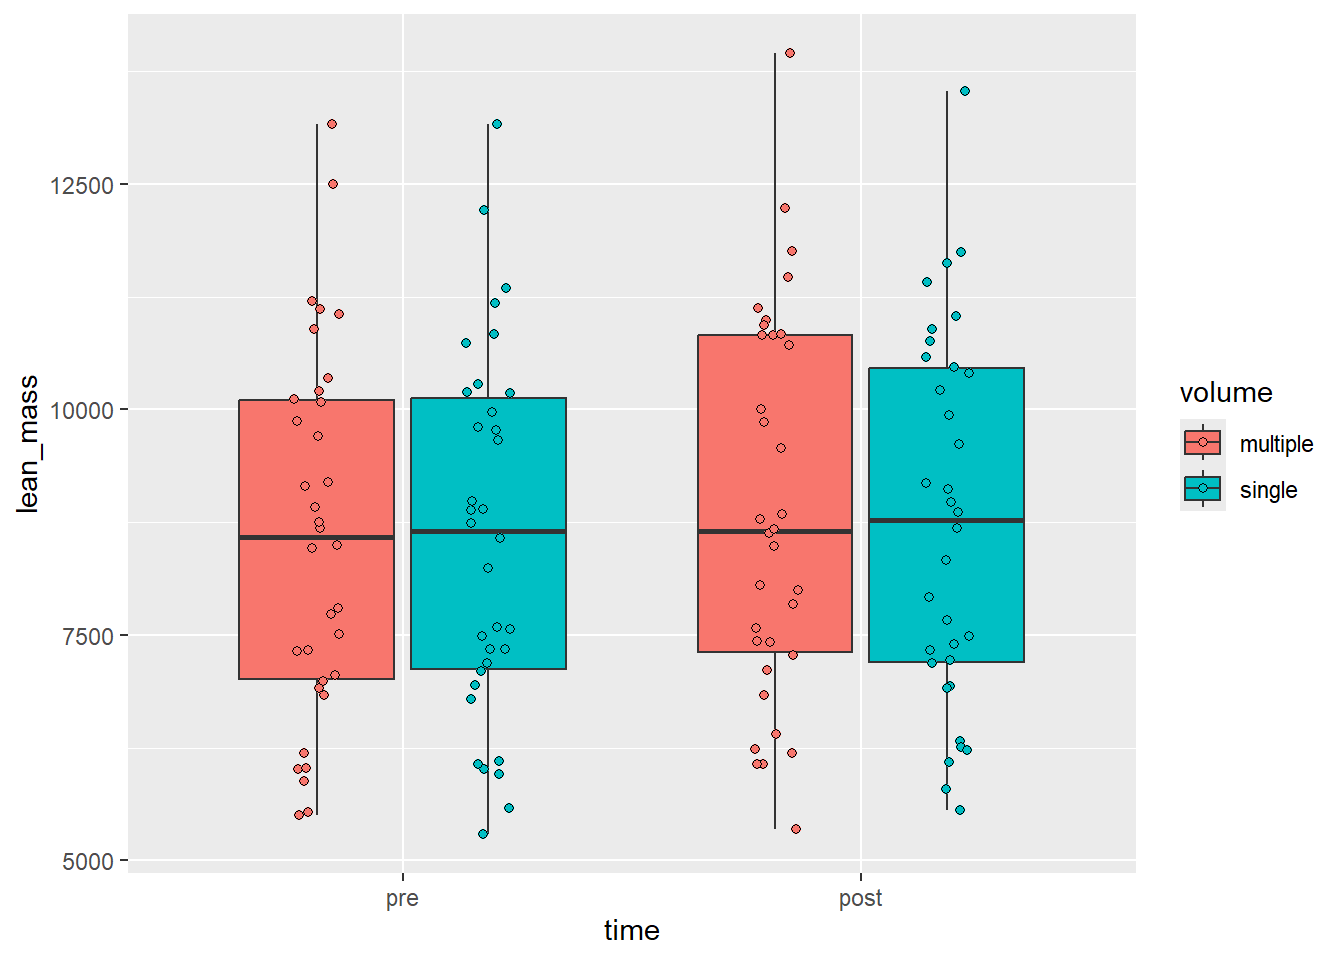
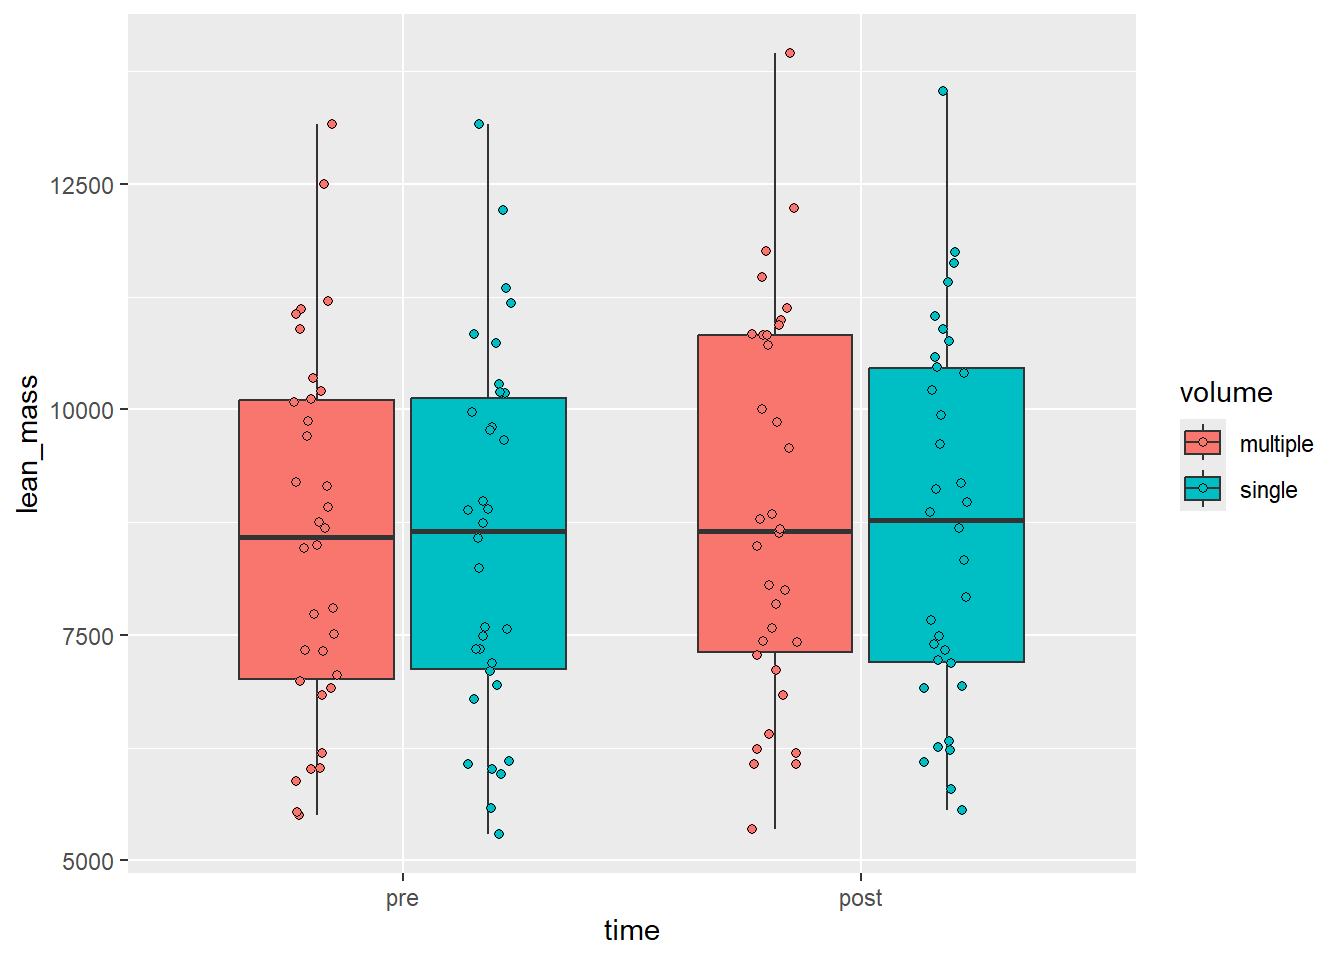
Built site for gh-pages

diff --git a/viz-01-basic-ggplot.html b/viz-01-basic-ggplot.html
@@ -286,23 +286,23 @@ Table&nbsp;1.1: Example data for a ggplot
 </figcaption>
 <div aria-describedby="tbl-ggplotdataexample-caption-0ceaefa1-69ba-4598-a22c-09a6ac19f8ca">
 <div class="cell-output-display">
-<div id="ufmfuvbewx" style="padding-left:0px;padding-right:0px;padding-top:10px;padding-bottom:10px;overflow-x:auto;overflow-y:auto;width:auto;height:auto;">
-<style>#ufmfuvbewx table {
+<div id="wntpxycupo" style="padding-left:0px;padding-right:0px;padding-top:10px;padding-bottom:10px;overflow-x:auto;overflow-y:auto;width:auto;height:auto;">
+<style>#wntpxycupo table {
   font-family: system-ui, 'Segoe UI', Roboto, Helvetica, Arial, sans-serif, 'Apple Color Emoji', 'Segoe UI Emoji', 'Segoe UI Symbol', 'Noto Color Emoji';
   -webkit-font-smoothing: antialiased;
   -moz-osx-font-smoothing: grayscale;
 }
 
-#ufmfuvbewx thead, #ufmfuvbewx tbody, #ufmfuvbewx tfoot, #ufmfuvbewx tr, #ufmfuvbewx td, #ufmfuvbewx th {
+#wntpxycupo thead, #wntpxycupo tbody, #wntpxycupo tfoot, #wntpxycupo tr, #wntpxycupo td, #wntpxycupo th {
   border-style: none;
 }
 
-#ufmfuvbewx p {
+#wntpxycupo p {
   margin: 0;
   padding: 0;
 }
 
-#ufmfuvbewx .gt_table {
+#wntpxycupo .gt_table {
   display: table;
   border-collapse: collapse;
   line-height: normal;
@@ -328,12 +328,12 @@ Table&nbsp;1.1: Example data for a ggplot
   border-left-color: #D3D3D3;
 }
 
-#ufmfuvbewx .gt_caption {
+#wntpxycupo .gt_caption {
   padding-top: 4px;
   padding-bottom: 4px;
 }
 
-#ufmfuvbewx .gt_title {
+#wntpxycupo .gt_title {
   color: #333333;
   font-size: 125%;
   font-weight: initial;
@@ -345,7 +345,7 @@ Table&nbsp;1.1: Example data for a ggplot
   border-bottom-width: 0;
 }
 
-#ufmfuvbewx .gt_subtitle {
+#wntpxycupo .gt_subtitle {
   color: #333333;
   font-size: 85%;
   font-weight: initial;
@@ -357,7 +357,7 @@ Table&nbsp;1.1: Example data for a ggplot
   border-top-width: 0;
 }
 
-#ufmfuvbewx .gt_heading {
+#wntpxycupo .gt_heading {
   background-color: #FFFFFF;
   text-align: center;
   border-bottom-color: #FFFFFF;
@@ -369,13 +369,13 @@ Table&nbsp;1.1: Example data for a ggplot
   border-right-color: #D3D3D3;
 }
 
-#ufmfuvbewx .gt_bottom_border {
+#wntpxycupo .gt_bottom_border {
   border-bottom-style: solid;
   border-bottom-width: 2px;
   border-bottom-color: #D3D3D3;
 }
 
-#ufmfuvbewx .gt_col_headings {
+#wntpxycupo .gt_col_headings {
   border-top-style: solid;
   border-top-width: 2px;
   border-top-color: #D3D3D3;
@@ -390,7 +390,7 @@ Table&nbsp;1.1: Example data for a ggplot
   border-right-color: #D3D3D3;
 }
 
-#ufmfuvbewx .gt_col_heading {
+#wntpxycupo .gt_col_heading {
   color: #333333;
   background-color: #FFFFFF;
   font-size: 100%;
@@ -410,7 +410,7 @@ Table&nbsp;1.1: Example data for a ggplot
   overflow-x: hidden;
 }
 
-#ufmfuvbewx .gt_column_spanner_outer {
+#wntpxycupo .gt_column_spanner_outer {
   color: #333333;
   background-color: #FFFFFF;
   font-size: 100%;
@@ -422,15 +422,15 @@ Table&nbsp;1.1: Example data for a ggplot
   padding-right: 4px;
 }
 
-#ufmfuvbewx .gt_column_spanner_outer:first-child {
+#wntpxycupo .gt_column_spanner_outer:first-child {
   padding-left: 0;
 }
 
-#ufmfuvbewx .gt_column_spanner_outer:last-child {
+#wntpxycupo .gt_column_spanner_outer:last-child {
   padding-right: 0;
 }
 
-#ufmfuvbewx .gt_column_spanner {
+#wntpxycupo .gt_column_spanner {
   border-bottom-style: solid;
   border-bottom-width: 2px;
   border-bottom-color: #D3D3D3;
@@ -442,11 +442,11 @@ Table&nbsp;1.1: Example data for a ggplot
   width: 100%;
 }
 
-#ufmfuvbewx .gt_spanner_row {
+#wntpxycupo .gt_spanner_row {
   border-bottom-style: hidden;
 }
 
-#ufmfuvbewx .gt_group_heading {
+#wntpxycupo .gt_group_heading {
   padding-top: 8px;
   padding-bottom: 8px;
   padding-left: 5px;
@@ -472,7 +472,7 @@ Table&nbsp;1.1: Example data for a ggplot
   text-align: left;
 }
 
-#ufmfuvbewx .gt_empty_group_heading {
+#wntpxycupo .gt_empty_group_heading {
   padding: 0.5px;
   color: #333333;
   background-color: #FFFFFF;
@@ -487,15 +487,15 @@ Table&nbsp;1.1: Example data for a ggplot
   vertical-align: middle;
 }
 
-#ufmfuvbewx .gt_from_md > :first-child {
+#wntpxycupo .gt_from_md > :first-child {
   margin-top: 0;
 }
 
-#ufmfuvbewx .gt_from_md > :last-child {
+#wntpxycupo .gt_from_md > :last-child {
   margin-bottom: 0;
 }
 
-#ufmfuvbewx .gt_row {
+#wntpxycupo .gt_row {
   padding-top: 8px;
   padding-bottom: 8px;
   padding-left: 5px;
@@ -514,7 +514,7 @@ Table&nbsp;1.1: Example data for a ggplot
   overflow-x: hidden;
 }
 
-#ufmfuvbewx .gt_stub {
+#wntpxycupo .gt_stub {
   color: #333333;
   background-color: #FFFFFF;
   font-size: 100%;
@@ -527,7 +527,7 @@ Table&nbsp;1.1: Example data for a ggplot
   padding-right: 5px;
 }
 
-#ufmfuvbewx .gt_stub_row_group {
+#wntpxycupo .gt_stub_row_group {
   color: #333333;
   background-color: #FFFFFF;
   font-size: 100%;
@@ -541,15 +541,15 @@ Table&nbsp;1.1: Example data for a ggplot
   vertical-align: top;
 }
 
-#ufmfuvbewx .gt_row_group_first td {
+#wntpxycupo .gt_row_group_first td {
   border-top-width: 2px;
 }
 
-#ufmfuvbewx .gt_row_group_first th {
+#wntpxycupo .gt_row_group_first th {
   border-top-width: 2px;
 }
 
-#ufmfuvbewx .gt_summary_row {
+#wntpxycupo .gt_summary_row {
   color: #333333;
   background-color: #FFFFFF;
   text-transform: inherit;
@@ -559,16 +559,16 @@ Table&nbsp;1.1: Example data for a ggplot
   padding-right: 5px;
 }
 
-#ufmfuvbewx .gt_first_summary_row {
+#wntpxycupo .gt_first_summary_row {
   border-top-style: solid;
   border-top-color: #D3D3D3;
 }
 
-#ufmfuvbewx .gt_first_summary_row.thick {
+#wntpxycupo .gt_first_summary_row.thick {
   border-top-width: 2px;
 }
 
-#ufmfuvbewx .gt_last_summary_row {
+#wntpxycupo .gt_last_summary_row {
   padding-top: 8px;
   padding-bottom: 8px;
   padding-left: 5px;
@@ -578,7 +578,7 @@ Table&nbsp;1.1: Example data for a ggplot
   border-bottom-color: #D3D3D3;
 }
 
-#ufmfuvbewx .gt_grand_summary_row {
+#wntpxycupo .gt_grand_summary_row {
   color: #333333;
   background-color: #FFFFFF;
   text-transform: inherit;
@@ -588,7 +588,7 @@ Table&nbsp;1.1: Example data for a ggplot
   padding-right: 5px;
 }
 
-#ufmfuvbewx .gt_first_grand_summary_row {
+#wntpxycupo .gt_first_grand_summary_row {
   padding-top: 8px;
   padding-bottom: 8px;
   padding-left: 5px;
@@ -598,7 +598,7 @@ Table&nbsp;1.1: Example data for a ggplot
   border-top-color: #D3D3D3;
 }
 
-#ufmfuvbewx .gt_last_grand_summary_row_top {
+#wntpxycupo .gt_last_grand_summary_row_top {
   padding-top: 8px;
   padding-bottom: 8px;
   padding-left: 5px;
@@ -608,11 +608,11 @@ Table&nbsp;1.1: Example data for a ggplot
   border-bottom-color: #D3D3D3;
 }
 
-#ufmfuvbewx .gt_striped {
+#wntpxycupo .gt_striped {
   background-color: rgba(128, 128, 128, 0.05);
 }
 
-#ufmfuvbewx .gt_table_body {
+#wntpxycupo .gt_table_body {
   border-top-style: solid;
   border-top-width: 2px;
   border-top-color: #D3D3D3;
@@ -621,7 +621,7 @@ Table&nbsp;1.1: Example data for a ggplot
   border-bottom-color: #D3D3D3;
 }
 
-#ufmfuvbewx .gt_footnotes {
+#wntpxycupo .gt_footnotes {
   color: #333333;
   background-color: #FFFFFF;
   border-bottom-style: none;
@@ -635,7 +635,7 @@ Table&nbsp;1.1: Example data for a ggplot
   border-right-color: #D3D3D3;
 }
 
-#ufmfuvbewx .gt_footnote {
+#wntpxycupo .gt_footnote {
   margin: 0px;
   font-size: 90%;
   padding-top: 4px;
@@ -644,7 +644,7 @@ Table&nbsp;1.1: Example data for a ggplot
   padding-right: 5px;
 }
 
-#ufmfuvbewx .gt_sourcenotes {
+#wntpxycupo .gt_sourcenotes {
   color: #333333;
   background-color: #FFFFFF;
   border-bottom-style: none;
@@ -658,7 +658,7 @@ Table&nbsp;1.1: Example data for a ggplot
   border-right-color: #D3D3D3;
 }
 
-#ufmfuvbewx .gt_sourcenote {
+#wntpxycupo .gt_sourcenote {
   font-size: 90%;
   padding-top: 4px;
   padding-bottom: 4px;
@@ -666,72 +666,72 @@ Table&nbsp;1.1: Example data for a ggplot
   padding-right: 5px;
 }
 
-#ufmfuvbewx .gt_left {
+#wntpxycupo .gt_left {
   text-align: left;
 }
 
-#ufmfuvbewx .gt_center {
+#wntpxycupo .gt_center {
   text-align: center;
 }
 
-#ufmfuvbewx .gt_right {
+#wntpxycupo .gt_right {
   text-align: right;
   font-variant-numeric: tabular-nums;
 }
 
-#ufmfuvbewx .gt_font_normal {
+#wntpxycupo .gt_font_normal {
   font-weight: normal;
 }
 
-#ufmfuvbewx .gt_font_bold {
+#wntpxycupo .gt_font_bold {
   font-weight: bold;
 }
 
-#ufmfuvbewx .gt_font_italic {
+#wntpxycupo .gt_font_italic {
   font-style: italic;
 }
 
-#ufmfuvbewx .gt_super {
+#wntpxycupo .gt_super {
   font-size: 65%;
 }
 
-#ufmfuvbewx .gt_footnote_marks {
+#wntpxycupo .gt_footnote_marks {
   font-size: 75%;
   vertical-align: 0.4em;
   position: initial;
 }
 
-#ufmfuvbewx .gt_asterisk {
+#wntpxycupo .gt_asterisk {
   font-size: 100%;
   vertical-align: 0;
 }
 
-#ufmfuvbewx .gt_indent_1 {
+#wntpxycupo .gt_indent_1 {
   text-indent: 5px;
 }
 
-#ufmfuvbewx .gt_indent_2 {
+#wntpxycupo .gt_indent_2 {
   text-indent: 10px;
 }
 
-#ufmfuvbewx .gt_indent_3 {
+#wntpxycupo .gt_indent_3 {
   text-indent: 15px;
 }
 
-#ufmfuvbewx .gt_indent_4 {
+#wntpxycupo .gt_indent_4 {
   text-indent: 20px;
 }
 
-#ufmfuvbewx .gt_indent_5 {
+#wntpxycupo .gt_indent_5 {
   text-indent: 25px;
 }
 
-#ufmfuvbewx .katex-display {
+#wntpxycupo .katex-display {
   display: inline-flex !important;
   margin-bottom: 0.75em !important;
 }
 
-#ufmfuvbewx div.Reactable > div.rt-table > div.rt-thead > div.rt-tr.rt-tr-group-header > div.rt-th-group:after {
+#wntpxycupo div.Reactable > div.rt-table > div.rt-thead > div.rt-tr.rt-tr-group-header > div.rt-th-group:after {
   height: 0px !important;
 }
 </style>

diff --git a/viz-05-glamour.html b/viz-05-glamour.html
@@ -343,8 +343,6 @@ What colors look good together?
 
 
 
-
-
 ::: {.cell}
 
 ```{.r .cell-code}
@@ -387,8 +385,6 @@ p <- ggplot(df, aes(x = angle, y = 1, color = angle)) +
         legend.position = "none")
 ```
 :::
-
-
 
 
 
